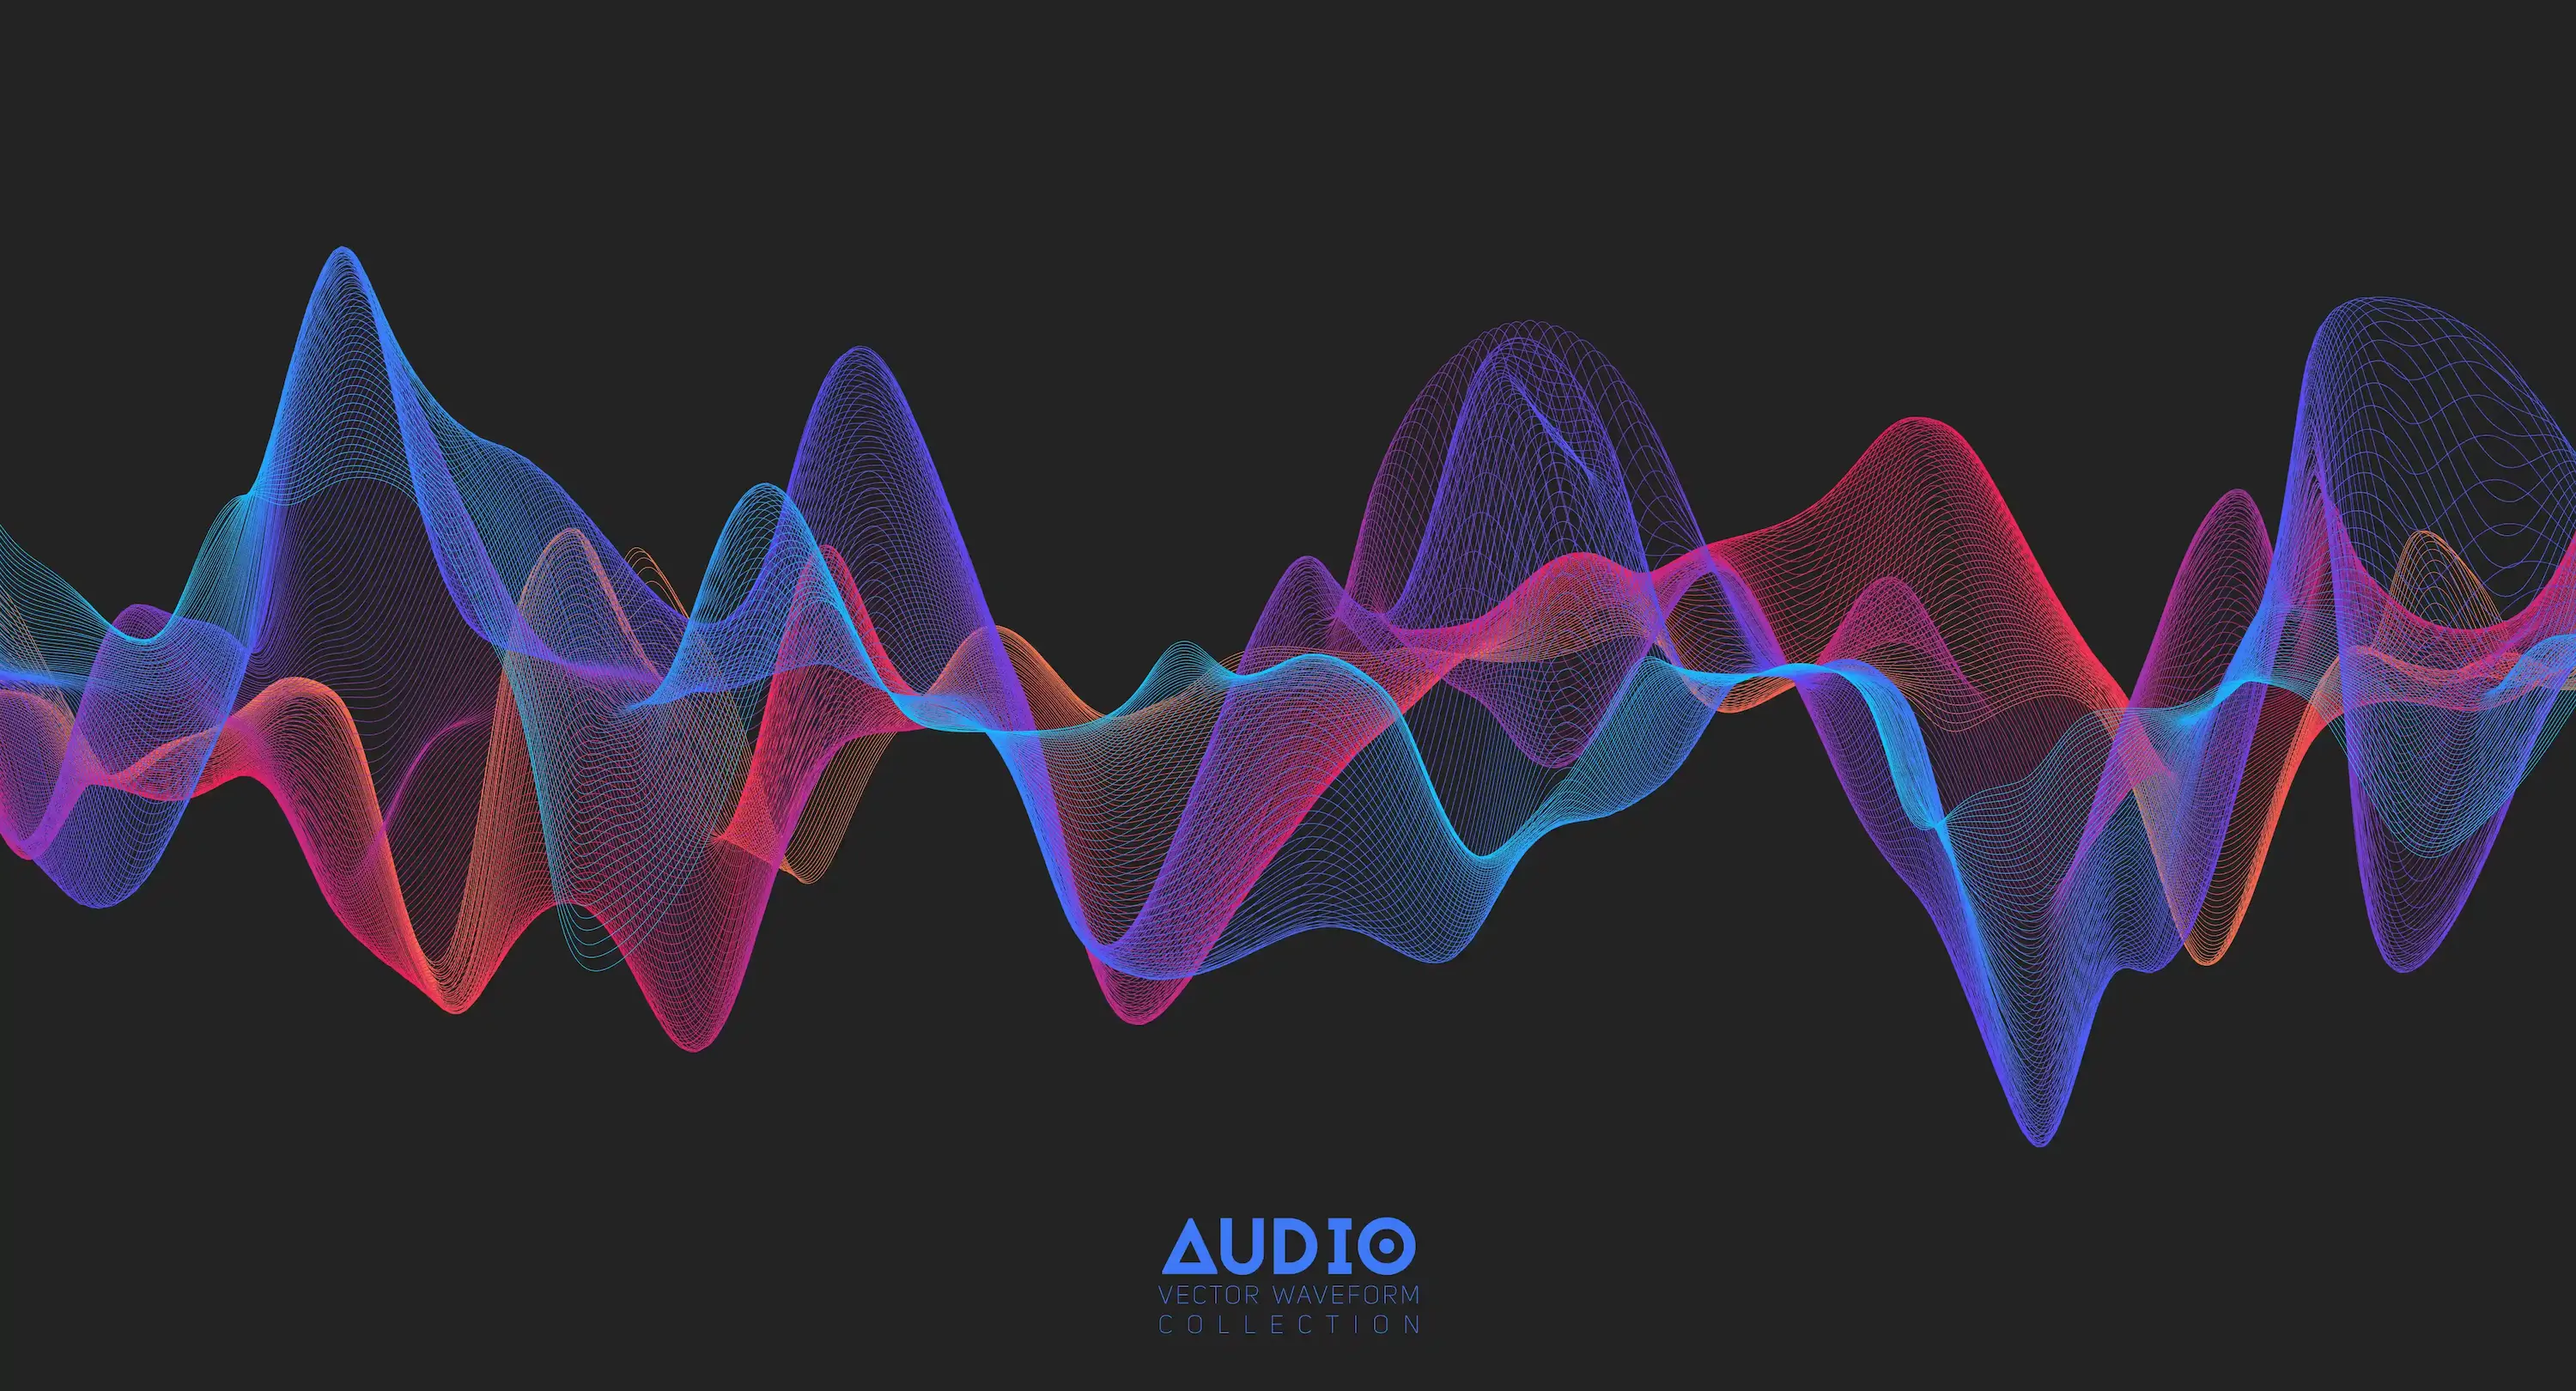
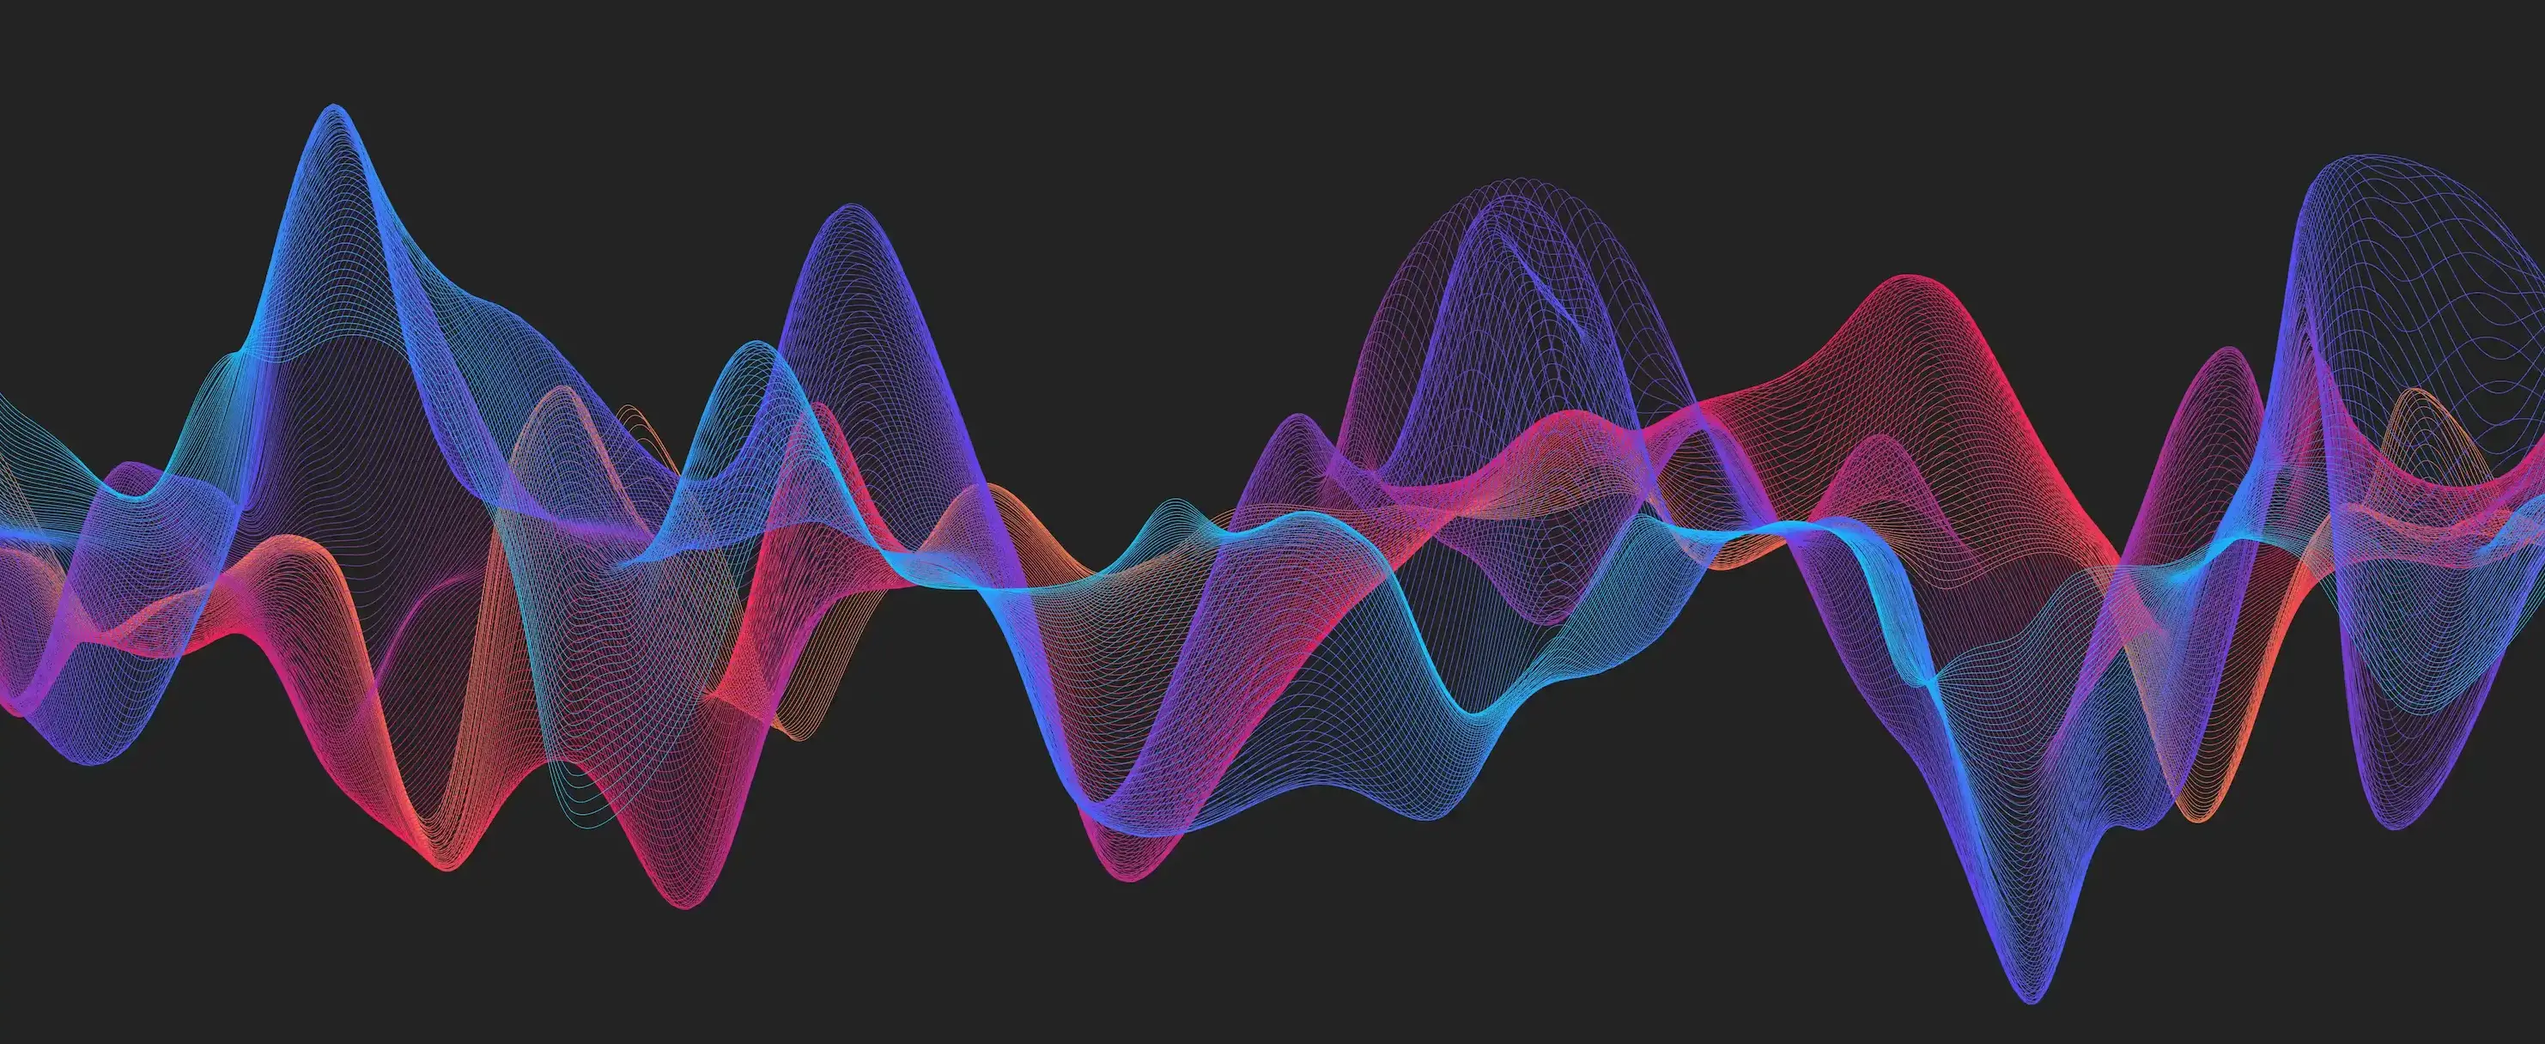
fix(hero): optimize styles and reduce background image size to improve LCP

diff --git a/frontend/src/App.vue b/frontend/src/App.vue
@@ -5,7 +5,7 @@ import ModalHost from '@/shared/components/modal/ModalHost.vue'
 import ActiveTrack from '@/shared/components/ActiveTrack.vue'
 const AsyncTracksView = defineAsyncComponent({
   loader: () => import('@/features/tracks/views/TracksView.vue'),
-  delay: 200,
+  delay: 0,
   timeout: 10000,
   suspensible: true,
 })
@@ -13,6 +13,7 @@ const AsyncTracksView = defineAsyncComponent({
 
 <template>
   <div class="wrapper">
+
     <section class="hero">
       <div class="hero__background">
         <img src="/image.webp" alt="" aria-hidden="true" loading="eager" fetchpriority="high" />
@@ -30,6 +31,7 @@ const AsyncTracksView = defineAsyncComponent({
         <div class="spinner" data-testid="loading-indicator" data-loading="true"></div>
       </template>
     </Suspense>
+
     <ModalHost />
     <AppFooter />
   </div>
@@ -43,13 +45,14 @@ const AsyncTracksView = defineAsyncComponent({
   position: relative;
   overflow: auto;
   gap: 1rem;
+  container-type: inline-size;
 }
+
 
 .hero {
   position: relative;
   height: var(--hero-height);
   width: 100%;
-  background: center / cover url(@/assets/image.webp) no-repeat;
 }
 
 .hero__background img {
@@ -57,10 +60,6 @@ const AsyncTracksView = defineAsyncComponent({
   height: 100%;
   object-fit: cover;
   position: absolute;
-  inset: 0;
-  z-index: 0;
-  opacity: 0;
-  pointer-events: none;
 }
 
 .hero__content {
@@ -68,13 +67,6 @@ const AsyncTracksView = defineAsyncComponent({
   z-index: 2;
   text-align: center;
   color: var(--color-text-base);
-}
-
-.hero__background::after {
-  content: '';
-  position: absolute;
-  inset: 0;
-  z-index: 1;
 }
 
 .hero__content {
@@ -86,7 +78,7 @@ const AsyncTracksView = defineAsyncComponent({
 .hero__title {
   font-size: 4rem;
   font-weight: 700;
-  margin-top: 5rem;
+  margin-top: 4rem;
 }
 
 @media screen and (max-width: 40rem) {
